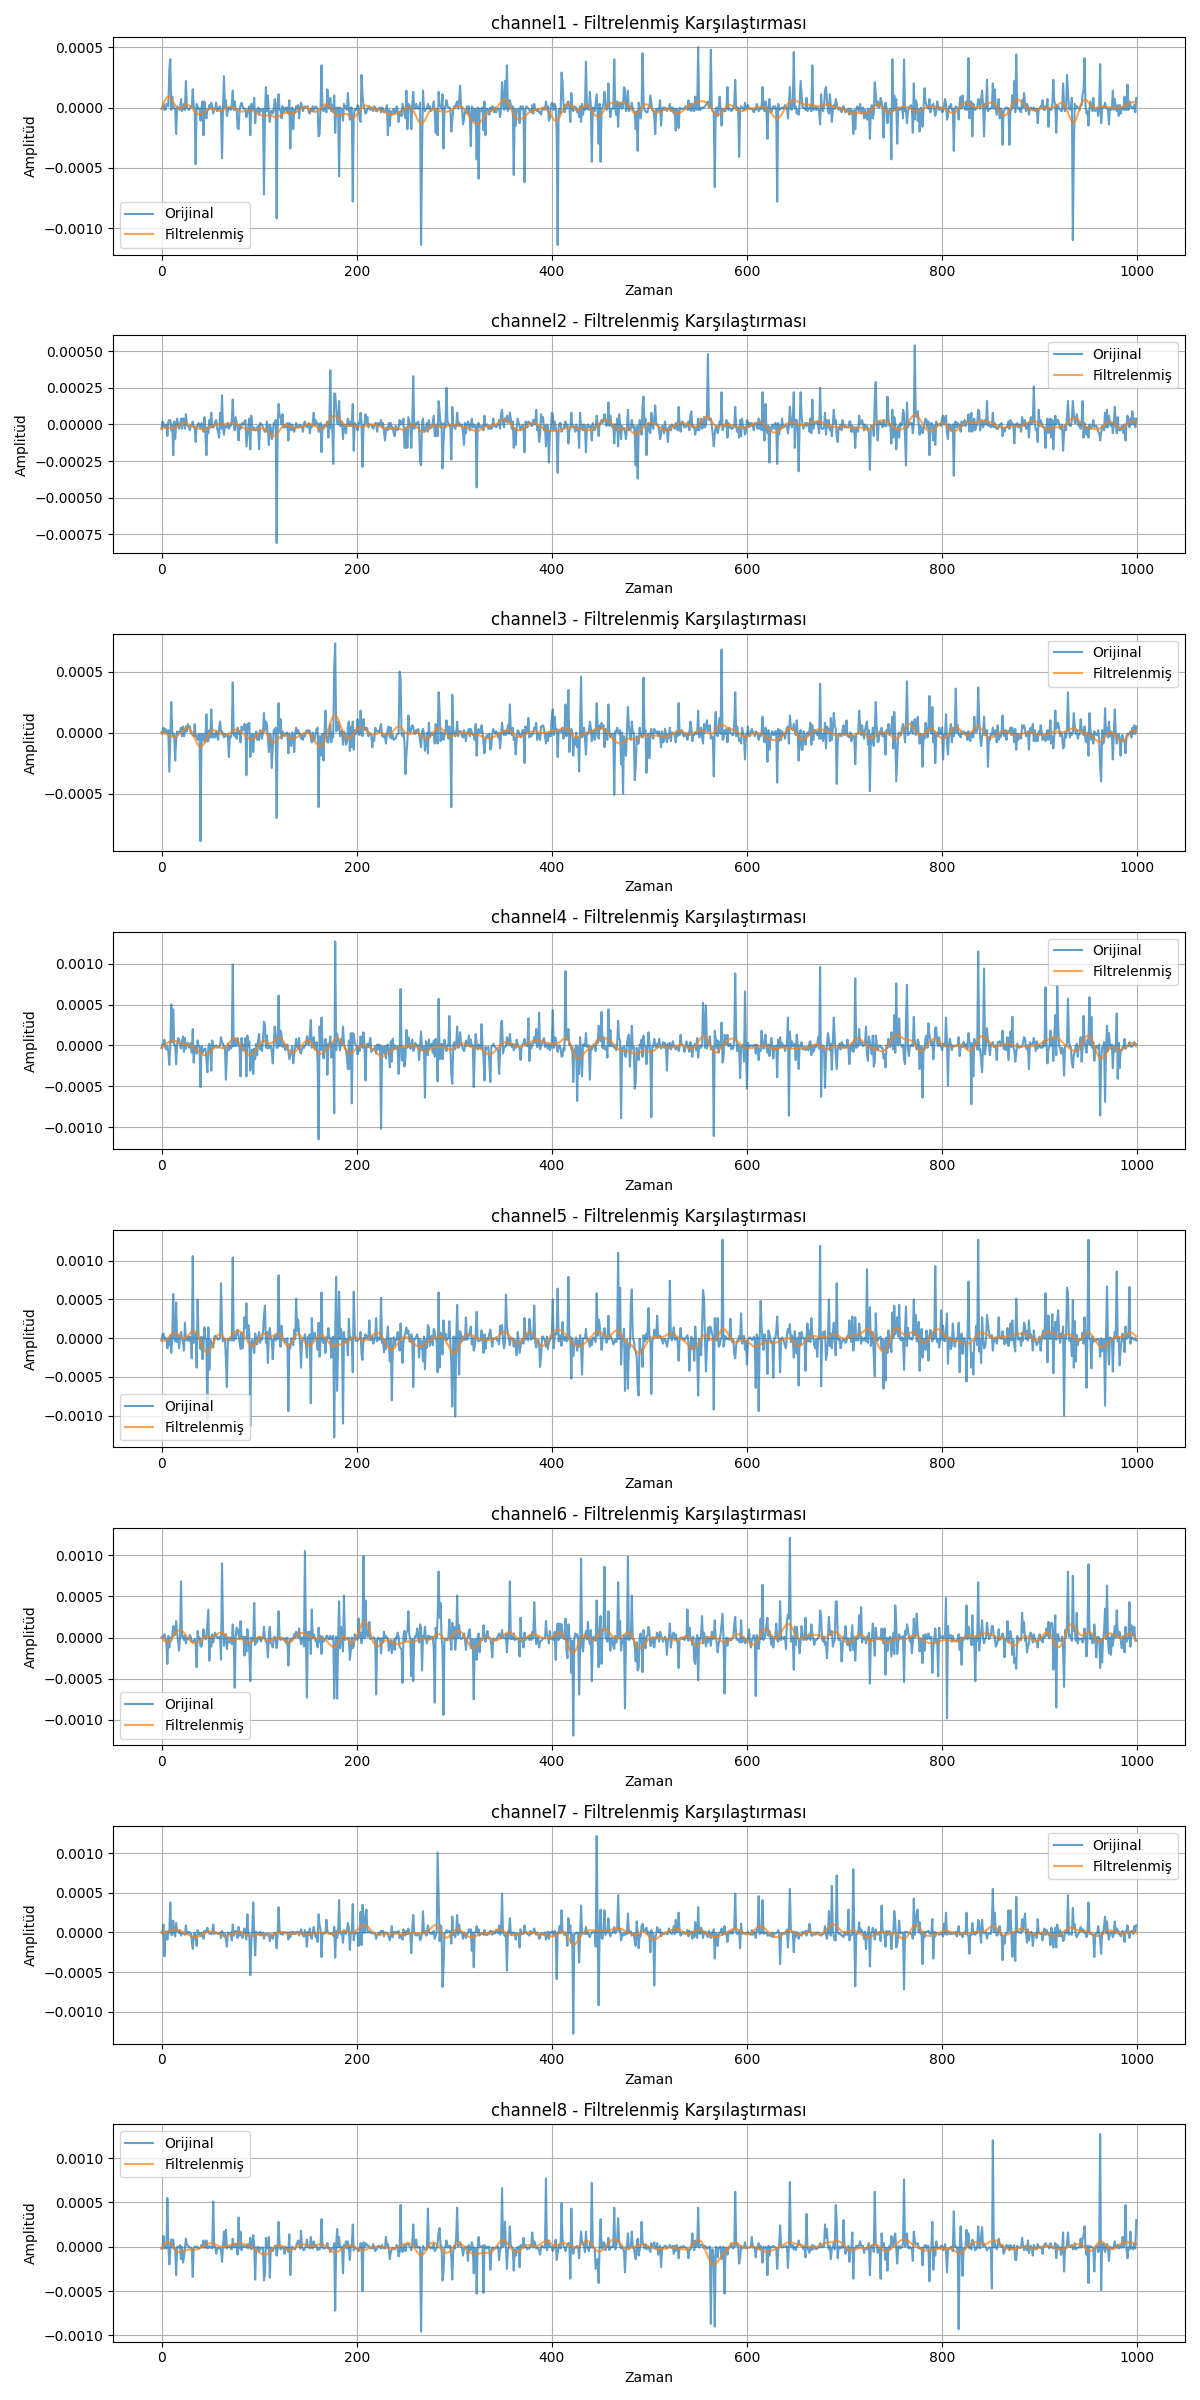
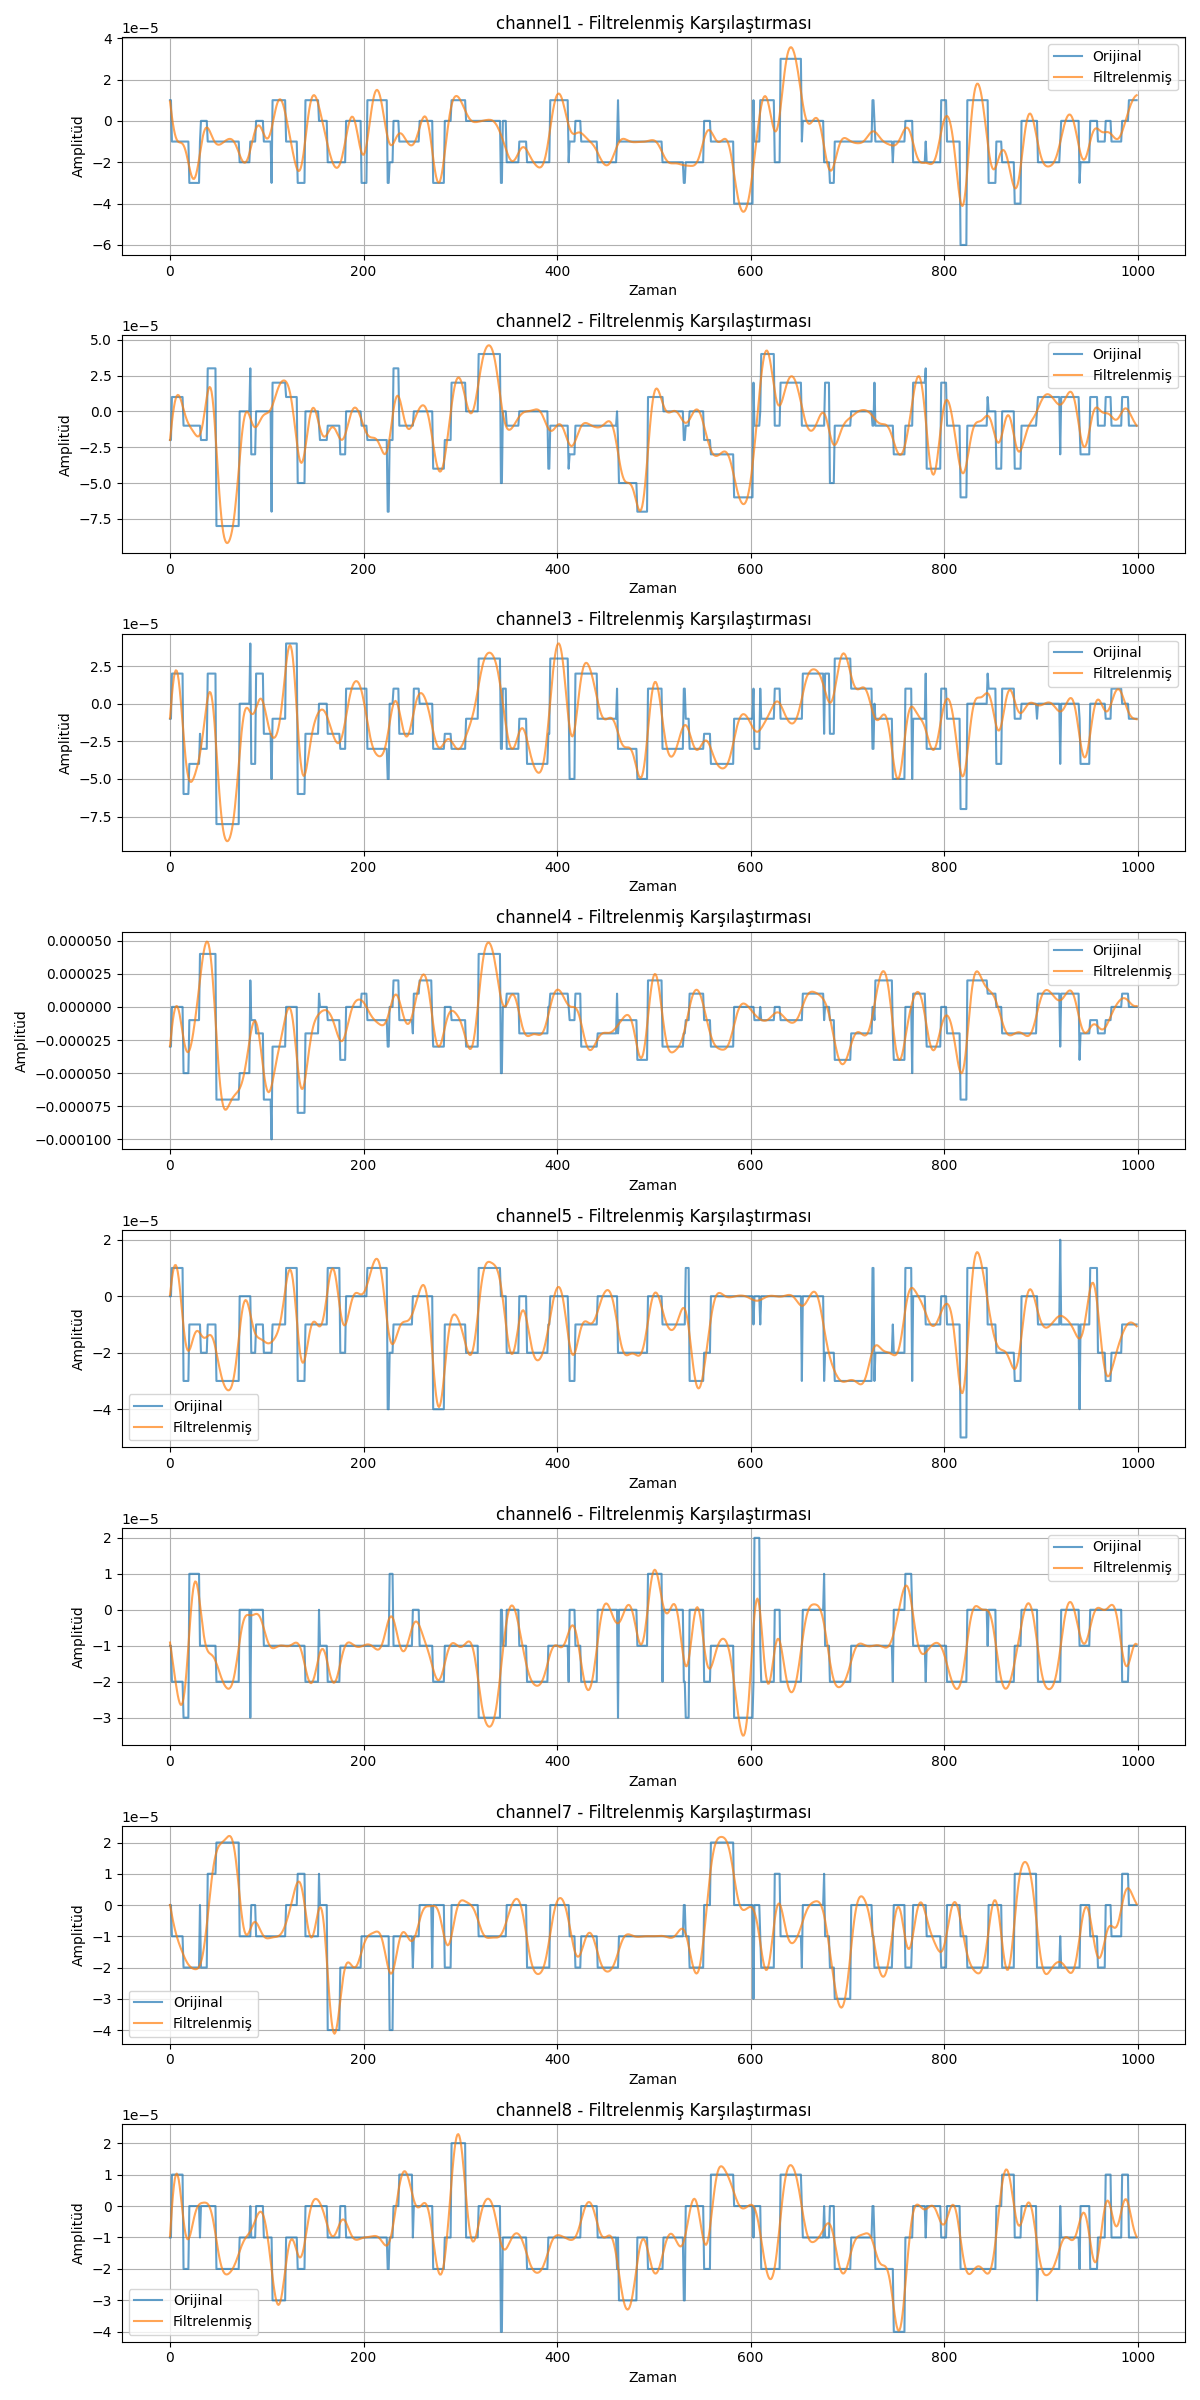
new changes

diff --git a/log_reg_trainer.py b/log_reg_trainer.py
@@ -1,0 +1,89 @@
+import pandas as pd
+import numpy as np
+from sklearn.model_selection import train_test_split
+from sklearn.linear_model import LogisticRegression
+from sklearn.metrics import classification_report, accuracy_score, confusion_matrix
+from sklearn.preprocessing import StandardScaler
+import matplotlib.pyplot as plt
+import seaborn as sns
+
+
+class LogisticRegressionTrainer:
+    def __init__(self, data, target_column):
+        """
+        Logistic Regression modeli eğitmek ve değerlendirmek için sınıf.
+        :param data: Veri seti (pandas DataFrame)
+        :param target_column: Sınıf etiketlerini içeren sütun adı
+        """
+        self.data = data
+        self.target_column = target_column
+
+    def preprocess_data(self):
+        """
+        Veriyi train, validation ve test setlerine böler.
+        :return: Train, validation ve test setleri
+        """
+        X = self.data.drop(columns=[self.target_column])
+        y = self.data[self.target_column]
+
+        # Veri setini train, validation ve test setlerine böl
+        X_train, X_temp, y_train, y_temp = train_test_split(X, y, test_size=0.3, random_state=42, stratify=y)
+        X_val, X_test, y_val, y_test = train_test_split(X_temp, y_temp, test_size=0.5, random_state=42, stratify=y_temp)
+
+        print(f"Train set boyutu: {X_train.shape[0]} örnek")
+        print(f"Validation set boyutu: {X_val.shape[0]} örnek")
+        print(f"Test set boyutu: {X_test.shape[0]} örnek")
+
+        return X_train, X_val, X_test, y_train, y_val, y_test
+
+    def train_and_evaluate(self, X_train, X_val, X_test, y_train, y_val, y_test):
+        """
+        Logistic Regression modelini eğitir ve performansını değerlendirir.
+        """
+        # Özellikleri ölçekle
+        scaler = StandardScaler()
+        X_train_scaled = scaler.fit_transform(X_train)
+        X_val_scaled = scaler.transform(X_val)
+        X_test_scaled = scaler.transform(X_test)
+
+        # Logistic Regression modelini oluştur
+        model = LogisticRegression(max_iter=1000, random_state=42, multi_class='multinomial')
+        model.fit(X_train_scaled, y_train)
+
+        # Validation seti üzerinde değerlendirme
+        val_predictions = model.predict(X_val_scaled)
+        val_accuracy = accuracy_score(y_val, val_predictions)
+
+        # Test seti üzerinde değerlendirme
+        test_predictions = model.predict(X_test_scaled)
+        test_accuracy = accuracy_score(y_test, test_predictions)
+
+        print("\nValidation Set Sonuçları:")
+        print(f"Doğruluk (Accuracy): {val_accuracy:.2f}")
+        print(classification_report(y_val, val_predictions))
+
+        print("\nTest Set Sonuçları:")
+        print(f"Doğruluk (Accuracy): {test_accuracy:.2f}")
+        print(classification_report(y_test, test_predictions))
+
+        # Confusion matrix hesapla
+        cm = confusion_matrix(y_test, test_predictions)
+
+        # Başarı özetini döndür
+        return {
+            "val_accuracy": val_accuracy,
+            "test_accuracy": test_accuracy,
+            "confusion_matrix": cm
+        }
+
+    @staticmethod
+    def plot_confusion_matrix(cm, classes, title="Confusion Matrix"):
+        """
+        Confusion matrix'i görselleştirir.
+        """
+        plt.figure(figsize=(10, 8))
+        sns.heatmap(cm, annot=True, fmt="d", cmap="Blues", xticklabels=classes, yticklabels=classes)
+        plt.title(title, fontsize=16)
+        plt.xlabel("Tahmin Edilen Sınıf", fontsize=12)
+        plt.ylabel("Gerçek Sınıf", fontsize=12)
+        plt.show()

diff --git a/main.py b/main.py
@@ -1,0 +1,59 @@
+import pandas as pd
+from dataset_analyzer import DatasetAnalyzer
+from dataset_balancer import DatasetBalancer
+from dataset_emg_signal_filter import EMGSignalProcessor
+# from feature_extractor import FeatureExtractor
+from log_reg_trainer import LogisticRegressionTrainer
+
+
+if __name__ == "__main__":
+    # Adım 1: Veri yükleme ve analiz
+    # print("Veri analizine başlanıyor...")
+    file_path = "./dataset/EMG-data.csv"
+    # analyzer = DatasetAnalyzer(file_path)
+    # analyzer.load_data()
+    # analyzer.basic_info()
+    # analyzer.check_missing_values()
+    # analyzer.visualize_class_distribution()
+
+    data = pd.read_csv(file_path)
+    target_column = "class"
+
+    # Adım 2: Filtreleme
+    print("\nFiltreleme işlemi başlıyor...")
+    channels = [f"channel{i}" for i in range(1, 9)]  # channel1, channel2, ..., channel8
+    processor = EMGSignalProcessor(data, channels)
+    processor.filter_all_channels(filter_type="low", cutoff=5,order=4, sampling_rate=1000)
+
+    filtered_data = processor.filtered_data
+    # filtered_data_path = "./dataset/filtered_emg_data.csv"
+    # filtered_data.to_csv(filtered_data_path, index=False)
+    # print(f"Filtrelenmiş veri kaydedildi: {filtered_data_path}")
+
+    # Adım 3: Özellik çıkarma
+    # print("\nÖzellik çıkarma işlemi başlıyor...")
+    # extractor = FeatureExtractor(filtered_data, channels, target_column)
+    # featured_data = extractor.extract_features()
+    # featured_data_path = "./dataset/featured_filtered_balanced_emg_data.csv"
+    # featured_data.to_csv(featured_data_path, index=False)
+    # print(f"Özellik çıkarılmış veri kaydedildi: {featured_data_path}")
+
+    
+    # Adım 2: Veri dengeleme
+    print("\nVeri dengeleniyor...")
+    balancer = DatasetBalancer(filtered_data, target_column)
+    balancer.class_distribution()
+    balanced_data = balancer.balance()
+    # balanced_data_path = "./dataset/featured_filtered_balanced_emg_data.csv"
+    # balanced_data.to_csv(balanced_data_path, index=False)
+    # print(f"Dengelenmiş veri kaydedildi: {balanced_data_path}")
+
+
+    # Adım 5: Logistic Regression Model Eğitimi ve Değerlendirme
+    print("\nModel eğitimi başlıyor...")
+    trainer = LogisticRegressionTrainer(balanced_data, target_column)
+    X_train, X_val, X_test, y_train, y_val, y_test = trainer.preprocess_data()
+    results = trainer.train_and_evaluate(X_train, X_val, X_test, y_train, y_val, y_test)
+
+    # Confusion Matrix Görselleştirme
+    trainer.plot_confusion_matrix(results["confusion_matrix"], classes=sorted(balanced_data[target_column].unique()))

diff --git a/temp/lr_new_data.py b/temp/lr_new_data.py
@@ -15,7 +15,7 @@ import seaborn as sns
 import matplotlib.pyplot as plt
 
 # 1. Zaman Serisi Filtreleme (Düşük Geçiren Filtre)
-def low_pass_filter(data, cutoff=0.1, fs=100, order=4):
+def low_pass_filter(data, cutoff=10, fs=1000, order=4):
     nyquist = 0.5 * fs
     normal_cutoff = cutoff / nyquist
     b, a = butter(order, normal_cutoff, btype="low", analog=False)
@@ -47,16 +47,16 @@ def extract_features(data, window_size=200):
     return np.array(features), np.array(labels)
 
 # 3. Veri Yükleme ve Hazırlık
-data = pd.read_csv("dataset/EMG-data.csv")  # Dataset yolunu güncelleyin
-# for col in [f"channel{i}" for i in range(1, 9)]:
-#     data[col] = low_pass_filter(data[col].values)  # Düşük geçiren filtre
+data = pd.read_csv("../dataset/EMG-data.csv")  # Dataset yolunu güncelleyin
+for col in [f"channel{i}" for i in range(1, 9)]:
+    data[col] = low_pass_filter(data[col].values)  # Düşük geçiren filtre
 
 # Özellik çıkarımı
 features, labels = extract_features(data)
 
 # # Veri dengesizliğini dengelemek için SMOTE
-# smote = SMOTE(random_state=42)
-# features, labels = smote.fit_resample(features, labels)
+smote = SMOTE(random_state=42)
+features, labels = smote.fit_resample(features, labels)
 
 # Eğitim ve test setine bölme
 X_train, X_test, y_train, y_test = train_test_split(features, labels, test_size=0.2, stratify=labels, random_state=42)

diff --git a/dataset_emg_signal_filter.py b/dataset_emg_signal_filter.py
@@ -94,7 +94,7 @@ class EMGSignalProcessor:
 
 if __name__ == "__main__":
     # Dengelenmiş veri setini yükle
-    file_path = "./dataset/Balanced_EMG_data.csv"
+    file_path = "./dataset/EMG-data.csv"
     data = pd.read_csv(file_path)
 
     # EMG kanalları
@@ -112,7 +112,7 @@ if __name__ == "__main__":
     )
 
     # Filtrelenmiş veriyi kaydet
-    processor.save_filtered_data("./dataset/filtered_balanced_emg_data.csv")
+    processor.save_filtered_data("./dataset/filtered_emg_data.csv")
 
     # Orijinal ve filtrelenmiş veriyi görselleştir
     processor.visualize_filtered_data("./dataset/filtered_emg_visualization.png", start=0, end=1000)

diff --git a/temp/lr_new_data_raw.py b/temp/lr_new_data_raw.py
@@ -13,7 +13,7 @@ import seaborn as sns
 import matplotlib.pyplot as plt
 
 # 1. Veri Yükleme
-data = pd.read_csv("dataset/EMG-data.csv")  # Dataset yolunu güncelleyin
+data = pd.read_csv("../dataset/EMG-data.csv")  # Dataset yolunu güncelleyin
 
 # 2. Ham Özellikler: Sadece EMG Kanalları Kullanımı
 X = data[[f"channel{i}" for i in range(1, 9)]].values  # Sadece EMG kanalları
